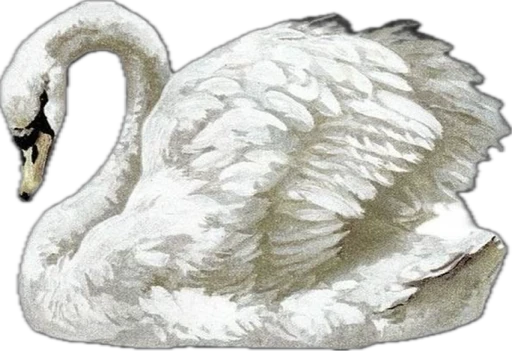
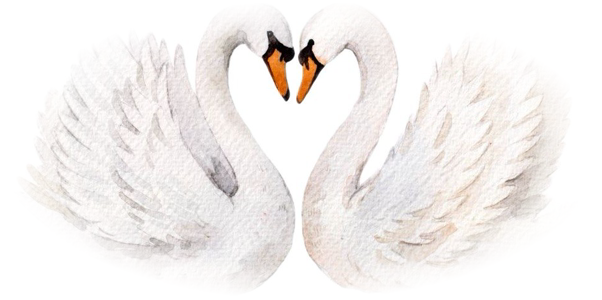
Replace single swan seal with two swans forming a heart
Combined the two new watercolor swan illustrations side by side (one
mirrored) so their necks meet in the classic heart-shape silhouette,
with a soft elliptical vignette (alpha mask) fading the rectangular
edges into transparency so it blends onto the cream envelope face
instead of showing a hard white box. Seal width/aspect-ratio adjusted
for the new wider (602x300) composite. Raw source photos moved to
photos-original/ (gitignored, not deployed).

diff --git a/index.html b/index.html
@@ -80,8 +80,8 @@
       position: absolute;
       top: 54.5%;
       left: 50%;
-      width: clamp(90px, 22vw, 130px);
-      aspect-ratio: 512 / 351;
+      width: clamp(130px, 30vw, 180px);
+      aspect-ratio: 602 / 300;
       transform: translate(-50%, -50%);
       z-index: 10;
       pointer-events: none;

diff --git a/src/style.css b/src/style.css
@@ -198,8 +198,8 @@ button { font-family: inherit; }
   position: absolute;
   top: 54.5%;
   left: 50%;
-  width: clamp(90px, 22vw, 130px);
-  aspect-ratio: 512 / 351;
+  width: clamp(130px, 30vw, 180px);
+  aspect-ratio: 602 / 300;
   transform: translate(-50%, -50%);
   z-index: 10;
   pointer-events: none;
